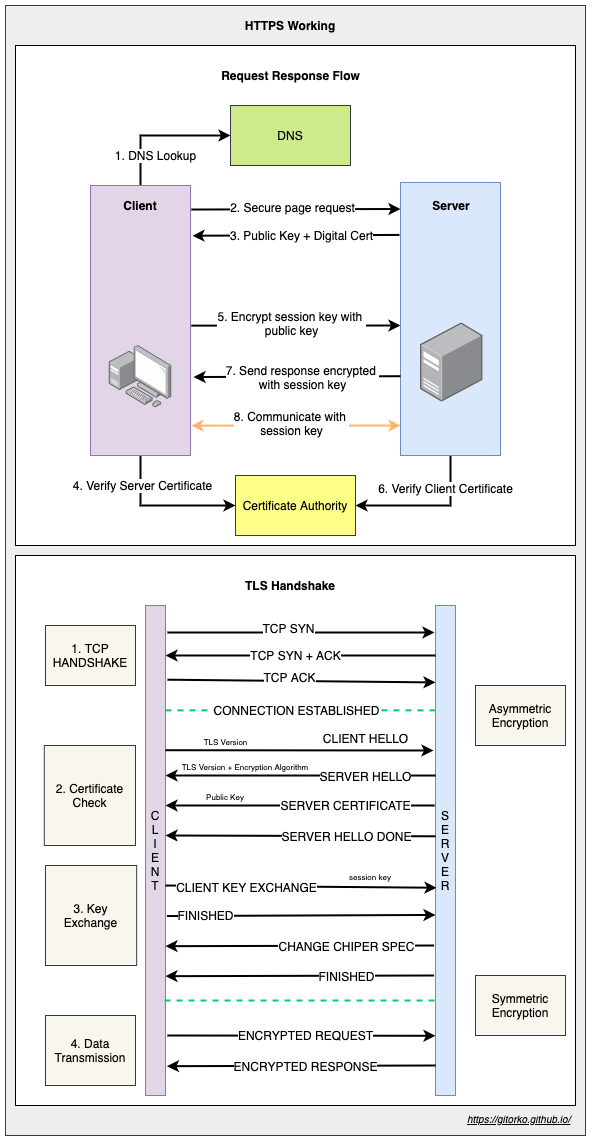
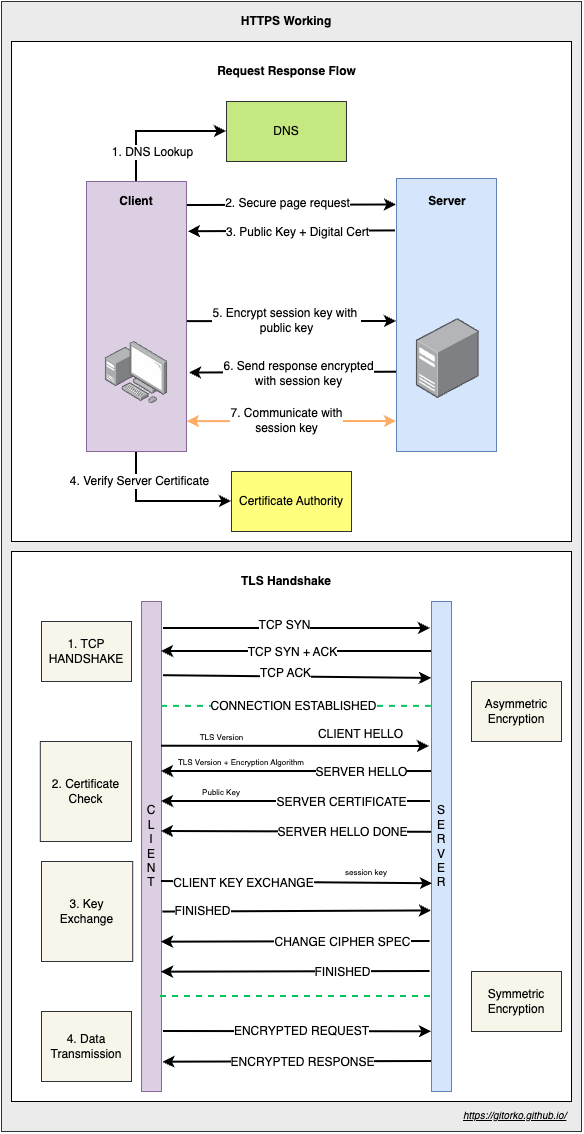
blog

Changed region(s): [[0.0, 0.0, 1.0, 1.0], [0.7089, 0.2778, 0.7705, 0.3704], [0.5856, 0.2469, 0.6164, 0.2778]]

diff --git a/content/post/grokking-the-system-design-interview/index.md b/content/post/grokking-the-system-design-interview/index.md
@@ -63,12 +63,12 @@ How many requests per second need to be handled?
 
 How much storage is needed for 5 year?
 
-| Type                                   | Count   | Description         |
-|:---------------------------------------|:--------|:--------------------|
-| Average Total requests per day         | 10^7    | 10 million requests |
-| Average size of request per user       | 2 MB    |                     |
-| Average size of request per day        | 20^7 MB | 20 TB               |
-| Average size of request for 5 year day | 36 PB   |                     |
+| Type                                   | Count     | Description         |
+|:---------------------------------------|:----------|:--------------------|
+| Average Total requests per day         | 10^7      | 10 million requests |
+| Average size of request per user       | 2 MB      |                     |
+| Average size of request per day        | 2x10^7 MB | 20 TB               |
+| Average size of request for 5 year day | 36 PB     |                     |
 
 **Bandwidth Estimation**
 
@@ -96,8 +96,8 @@ How many CPU core/servers are needed?
 |:----------------------------------------|:------------|:------------|
 | Average total requests per sec          | 100 req/sec |             |
 | Average cpu processing time per request | 100 ms/req  |             |
-| Average cpu processing time per sec     | 10^6 ms/sec |             |
-| Average 1 cpu core processing per sec   | 10^5 ms/sec |             |
+| Average cpu processing time per sec     | 10^4 ms/sec |             |
+| Average 1 cpu core processing per sec   | 10^3 ms/sec |             |
 | Average number of cpu core              | 10          |             |
 
 ## High Level Design (HLD)
@@ -150,8 +150,8 @@ Eg: Design the order acceptance system for food delivery app that can cater to 7
 Fork Join is suited for tasks that create sub-tasks. Fork/Join framework uses work-stealing algorithm.
 Work stealing is a scheduling strategy where worker threads that have finished their own tasks can steal pending tasks
 from other threads.
-Uses a deque (double ended queue), main thread picks task from the front of the queue, other threads steal tasks from
-the back of the queue.
+Uses a deque (double ended queue) per worker thread, the owning thread picks its own tasks from the front of its
+deque, while idle threads steal tasks from the back of other threads' deques.
 
 ![](fork-join.png)
 
@@ -608,8 +608,8 @@ Metaspace is automatically resized hence applications won't run out of memory if
 Types of garbage collector:
 
 1. `-XX:+UseSerialGC` - Serial garbage collector. Single thread for both minor & major gc.
-2. `XX:+UseParallelGC` - Parallel garbage collector. Multiple thread for both minor gc & single/multiple thread for major gc. Doesn't run concurrently with application. The pause time is longest. eg: Batch jobs
-3. `XX:+UseConcMarkSweepGC` - CMS (Concurrent Mark & Sweep) Deprecated since java 9. Multiple thread for both minor & major gc. Concurrent Mark & Sweep. Runs concurrently with application to mark live objects. The pause time is minimal. eg: CPU intensive.
+2. `-XX:+UseParallelGC` - Parallel garbage collector. Multiple thread for both minor gc & single/multiple thread for major gc. Doesn't run concurrently with application. The pause time is longest. eg: Batch jobs
+3. `-XX:+UseConcMarkSweepGC` - CMS (Concurrent Mark & Sweep) Deprecated since java 9. Multiple thread for both minor & major gc. Concurrent Mark & Sweep. Runs concurrently with application to mark live objects. The pause time is minimal. eg: CPU intensive.
 4. `-XX:+UseG1GC` - G1 (Garbage first) garbage collector. Entire heap is divided to multiple regions that can be resized. A region can be either young or old. Identifies the regions with the most garbage and performs garbage collection on that region first, it is called Garbage First The pause time is predictable as regions are small.
 5. `-XX:+UseEpsilonGC` - Epsilon collector - Do nothing collector. JVM shutsdown once heap is full. Used for zero pause time application provided memory is planned.
 6. `-XX:+UseShenandoahGC` - Shenandoah collector - Similar to G1, but runs concurrently with application. CPU intensive.
@@ -646,9 +646,9 @@ Load balancer distributes traffic across multiple nodes ensuring high availabili
 Always create health check url that can determine if node is healthy or not, based on this the load balancer decides if
 the node is up or down.
 
-1. L3 - IP Based
-2. L4 - DNS Based
-3. L7 - Application Based
+1. L4 - Transport Layer, routes based on IP address & port (TCP/UDP), doesn't inspect packet content.
+2. L7 - Application Layer, routes based on HTTP content like URL, headers, cookies.
+3. DNS Based - resolves a domain to different IPs (eg: Route53 GeoDNS/latency routing), works at DNS resolution time before the request reaches a load balancer.
 
 Sticky sessions - Will assign the same user request to the same node in order to maintain the session state on the node.
 Ideally sticky session should be avoided, if the node goes down few users will experience outage. However in some cases
@@ -696,7 +696,16 @@ Implementing CQRS in your application can maximize its performance, scalability,
 
 ### 29. HTTPS & TLS Handshake
 
-Asymmetric encryption vs symmetric encryption
+HTTPS is HTTP layered over TLS, it uses asymmetric encryption to securely exchange a symmetric session key, then uses
+that faster symmetric key for the rest of the session.
+
+1. Client Hello - Client sends supported TLS versions & cipher suites, along with a random number.
+2. Server Hello - Server picks a cipher suite, responds with its own random number & its certificate (contains the
+   server's public key, signed by a trusted Certificate Authority).
+3. Certificate validation - Client validates the certificate against trusted root CAs & checks the domain matches.
+4. Key exchange - Client generates a pre-master secret, encrypts it with the server's public key and sends it over.
+   Both sides derive the same symmetric session key from the pre-master secret & the earlier random numbers.
+5. Finished - Both sides switch to the symmetric session key and all further data is encrypted using it.
 
 ![](working-https.png)
 
@@ -912,7 +921,7 @@ CREATE TABLE customer
     created_on TIMESTAMP    NOT NULL,
 ) PARTITION BY HASH (id);
 CREATE TABLE customer_even PARTITION OF customer FOR VALUES WITH (MODULUS 2,REMAINDER 0);
-CREATE TABLE customer_odd PARTITION OF customer FOR VALUES WITH (MODULUS 2,REMAINDER 0);
+CREATE TABLE customer_odd PARTITION OF customer FOR VALUES WITH (MODULUS 2,REMAINDER 1);
 ```
 
 Range Partition
@@ -953,11 +962,11 @@ CREATE TABLE customer
 ) PARTITION BY LIST (EXTRACT(YEAR FROM created_on));
 CREATE TABLE customer_2021 PARTITION OF customer FOR VALUES IN
 (
-    '2021'
+    2021
 );
 CREATE TABLE customer_2022 PARTITION OF customer FOR VALUES IN
 (
-    '2022'
+    2022
 );
 ```
 
@@ -1026,7 +1035,7 @@ servers will avoid this to some extent.
 1. Token Bucket - Burst - Fixed token are added to bucket, bucket is always kept in full state. Can lead to burst of
    traffic.
 2. Token Bucket - Sustain - Constant token are added to bucket only if previous token are consumed. Smooth traffic.
-3. Leaky Bucket - Bucket size if fixed, if bucket full request are rejected, a processor de-queue bucket at fixed rate.
+3. Leaky Bucket - Bucket size is fixed, if bucket full request are rejected, a processor de-queue bucket at fixed rate.
 4. Fixed Window - For the time period maintain a key,value pair (key=time, value=counter). If counter is greater than rate limit reject. Leads to
    burst traffic around edges of time period. eg: If rate limit is 10 per min, then 8 request come in the last 30 sec of min window and  8 more requests come in the first 30 second of next min window, within the window the rate limit is honored but we still processed 16 requests within a 1 min window.
 5. Sliding Log - Go over all previous nodes upto the time interval, in the link list and check rate limit exceeded, if
@@ -1332,7 +1341,7 @@ it is executed.
 | DELETE  | Delete a resource object                                           | Yes        |
 | POST    | Create a new resource object                                       | No         |
 | HEAD    | Return meta data of resource object                                | Yes        |
-| PATCH   | Apply partial update on resource object                            | False      |
+| PATCH   | Apply partial update on resource object                            | No         |
 | OPTIONS | Determine what HTTP methods are supported by a particular resource | Yes        |
 
 ### 64. Types of database
@@ -1439,7 +1448,7 @@ Lock striping is a technique used to improve the concurrency and performance of 
 Eg: ConcurrentHashMap, the data is divided into multiple segments, each with its own lock. When a thread needs to read or write to the map, it only needs to acquire the lock for the relevant segment, not the entire map. This allows other threads to access different segments concurrently.
 It divides the map into 16 segments by default (this can be configured), each with its own lock.
 
-### 73. Normalization vs De-Normalization
+### 72. Normalization vs De-Normalization
 
 1. Normalization - focuses on reducing redundancy and ensuring data integrity by organizing data into related tables.
 2. De-Normalization introduces redundancy to improve read performance and simplify queries by combining related tables.
@@ -1629,7 +1638,6 @@ After:
 
 ### Other Topics
 
-* Normalization vs De-Normalization
 * Federation
 * First Level vs Second Level Cache
 * Distributed tracing
@@ -1665,7 +1673,6 @@ After:
 * Operational transformation - Shared document edit
 * Strangler pattern
 * API versioning
-* Backend for frontend (BFF) pattern
 * Transaction propagation & rollback policy 
 * Adaptive Bitrate Streaming for video
 
@@ -1812,7 +1819,7 @@ Instead of incrementing/decrementing a counter, check if it's possible to create
 tokens in a queue/bucket it's easier to scale than trying to update a single counter in atomic fashion.
 {{% /notice %}}
 
-### 4. Design a Code Build & Deploy System
+### 5. Design a Code Build & Deploy System
 
 Build the code when someone commits code to a branch and deploy it to a machine.
 
@@ -1835,7 +1842,7 @@ Build the code when someone commits code to a branch and deploy it to a machine.
 Split the tasks into smaller sub-tasks so that they can be restarted in case of failure.
 {{% /notice %}}
 
-### 5. Design a large scale file de-duplication service
+### 6. Design a large scale file de-duplication service
 
 You will receive a number of files (customer records) in a folder once a day, the file sizes range from 10GB-50GB that
 need to be de-duplicated based on few columns eg: Name & phone number column.
@@ -1862,7 +1869,7 @@ Smaller tasks take less time, can be restarted/retried, can be distributed. Alwa
 When there are more producers than consumers it will quickly overwhelm the system, use a queue to store and process the tasks asynchronously.
 {{% /notice %}}
 
-### 6. Design a flash sale system
+### 7. Design a flash sale system
 
 You have limited items that are up for sale. You can expect a large number of users trying to buy the product by adding it to the shopping cart. You cant oversell or undersell.
 
@@ -1882,7 +1889,7 @@ If the add to cart operation has to be completed within same request-response th
 Always minimize the request-response time window. The longer the request is kept open it will negatively impact the system.
 {{% /notice %}}
 
-### 7. Design a chat server
+### 8. Design a chat server
 
 The chat server needs to support 1-1 and group text based chat. The client can be offline and will receive all the message when they are back online.
 
@@ -1905,15 +1912,15 @@ The chat server needs to support 1-1 and group text based chat. The client can b
 Split the communication channel to command and data channel.
 {{% /notice %}}
 
-### 8. Design a Voting service
+### 9. Design a Voting service
 
 [https://gitorko.github.io/voting-system/](https://gitorko.github.io/post/voting-system/)
 
-### 9. Design a Stock Exchange (Price Time Priority Algorithm)
+### 10. Design a Stock Exchange (Price Time Priority Algorithm)
 
 [https://gitorko.github.io/stock-exchange/](https://gitorko.github.io/post/stock-exchange/)
 
-### 10. Design a ticket booking system
+### 11. Design a ticket booking system
 
 [https://gitorko.github.io/ticket-booking-system/](https://gitorko.github.io/post/ticket-booking-system/)
 
